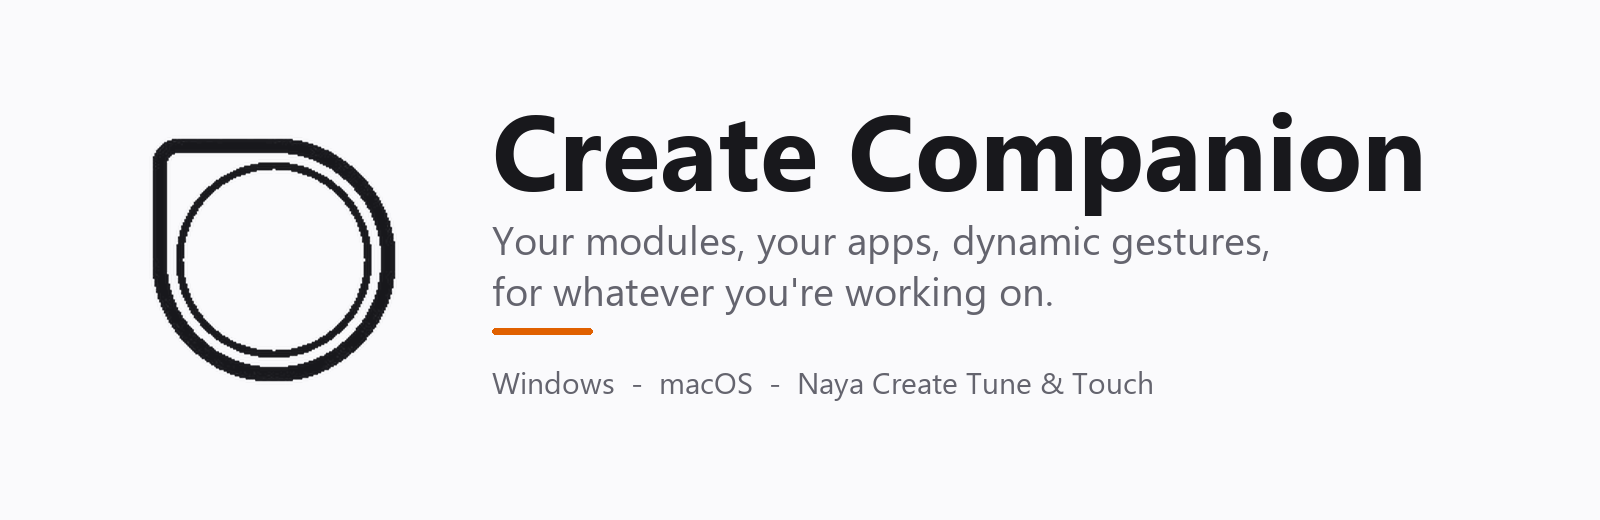
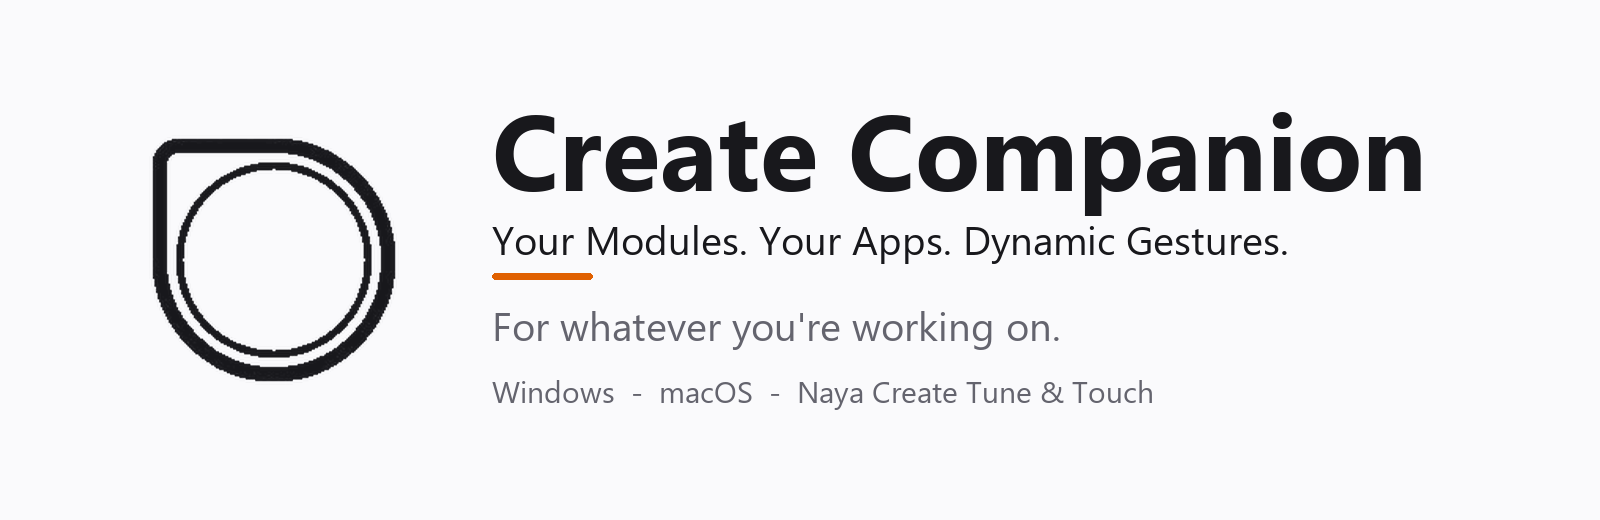
tagline: Your Modules. Your Apps. Dynamic Gestures. / For whatever you're working on.

diff --git a/tools/make_banner.py b/tools/make_banner.py
@@ -15,7 +15,7 @@ from PIL import Image, ImageDraw, ImageFont
 ROOT = Path(__file__).resolve().parent.parent
 os.chdir(ROOT)
 
-TAGLINE = ("Your modules, your apps, dynamic gestures,", "for whatever you're working on.")
+TAGLINE = ("Your Modules. Your Apps. Dynamic Gestures.", "For whatever you're working on.")
 PLATFORMS = "Windows  -  macOS  -  Naya Create Tune & Touch"
 
 ICON = Image.open("assets/icon.png").convert("RGBA")
@@ -56,13 +56,15 @@ def render(out: Path, w: int, h: int, theme: str, scale: float = 1.0, extra: str
     f_small = font(int(27 * scale))
     top = (h - int(330 * scale)) // 2
     d.text((x, top), "Create Companion", font=f_title, fill=c["ink"])
+    # Tagline: the three-beat line, the accent rule right under it, then the
+    # second line, then the platforms.
     y = top + int(122 * scale)
-    for line in TAGLINE:
-        d.text((x, y), line, font=f_tag, fill=c["muted"])
-        y += int(46 * scale)
-    y += int(14 * scale)
+    d.text((x, y), TAGLINE[0], font=f_tag, fill=c["ink"])
+    y += int(56 * scale)
     d.rounded_rectangle((x, y, x + int(90 * scale), y + int(6 * scale)), radius=3, fill=c["accent"])
-    y += int(30 * scale)
+    y += int(22 * scale)
+    d.text((x, y), TAGLINE[1], font=f_tag, fill=c["muted"])
+    y += int(66 * scale)
     d.text((x, y), PLATFORMS + extra, font=f_small, fill=c["muted"])
 
     img.save(out, optimize=True)

diff --git a/README.md b/README.md
@@ -6,7 +6,7 @@
 </p>
 
 <p align="center">
-  <b>Your modules, your apps, dynamic gestures for whatever you're working on.</b><br>
+  <b>Your Modules. Your Apps. Dynamic Gestures.</b> For whatever you're working on.<br>
   Flash a Naya Create module once. Decide what its gestures do in each app, live, on the computer.
 </p>
 
